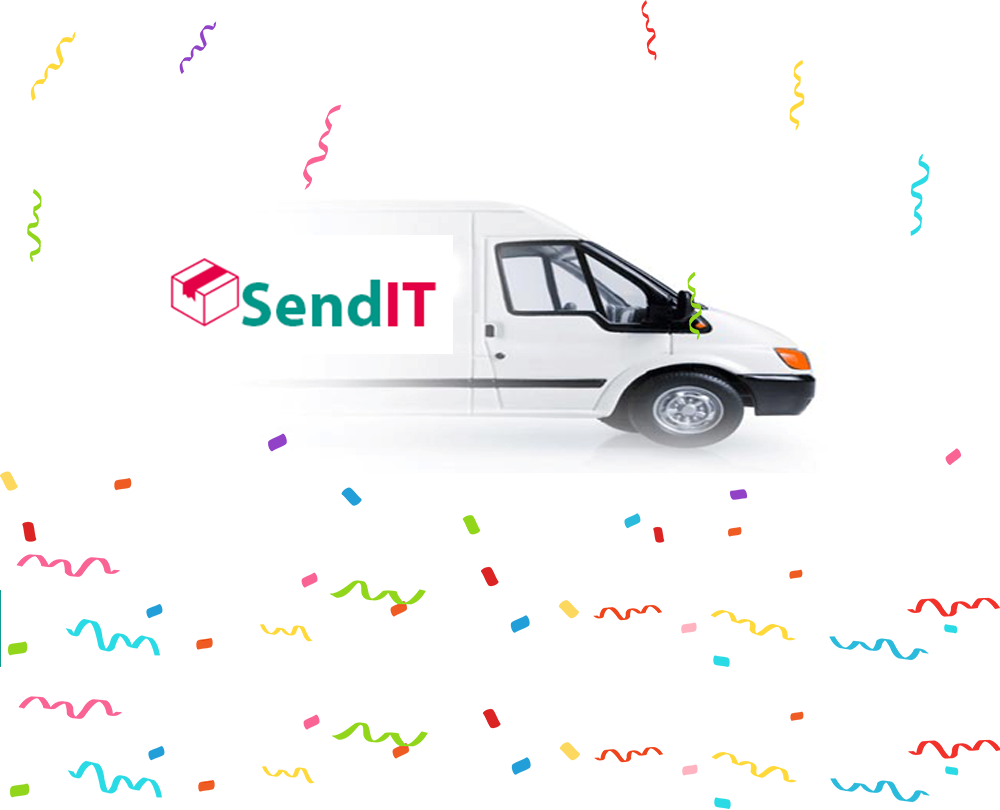
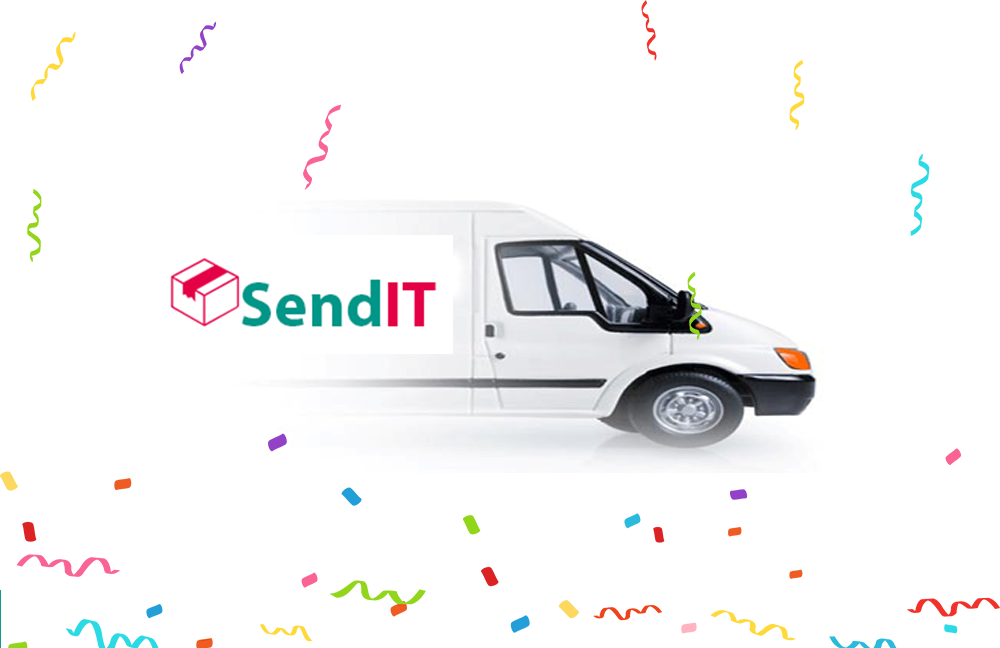
Added Background Image for the UI using CSS

diff --git a/UI/css/style.css b/UI/css/style.css
@@ -4,9 +4,12 @@
 
 body{
     font-family:Verdana;
-    background-color: white;
     color:#333;
     width: 100%;
+    max-width: 100%;
+    background-image: url("../images/background.png");
+    background-repeat: no-repeat;
+    background-color: white;
 }
 
 .menu {
@@ -97,7 +100,6 @@ body{
   float:left;
   width:16.5%;
   margin-right: 3.5%;
-  padding:15px;
   margin-top:2.5%;
   text-align:center;
 }
